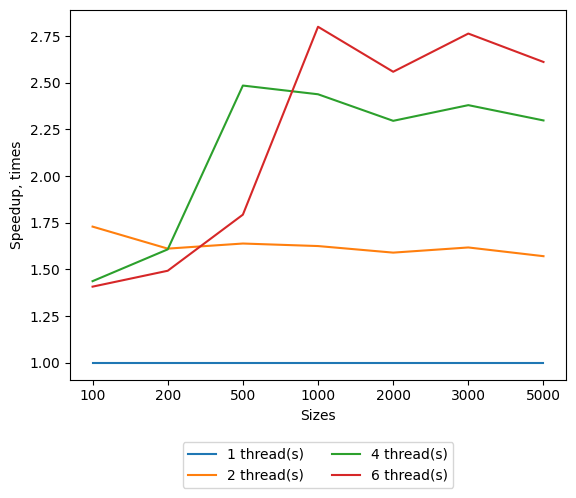
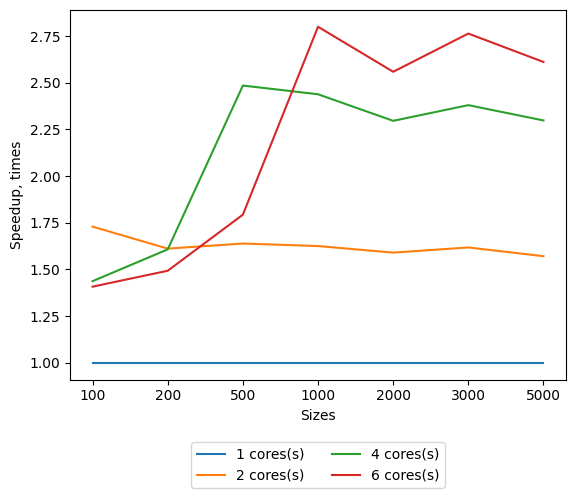
[lab-2] Update pictures legend

Changed region(s): [[0.375, 0.9036, 0.5312, 0.9639], [0.6562, 0.9036, 0.7812, 0.9639], [0.3125, 0.9036, 0.3438, 0.9639]]

diff --git a/lab2-Jacobi/plotting.py b/lab2-Jacobi/plotting.py
@@ -10,14 +10,14 @@ def read_json(filename):
 
 
 def plot():
-    parent_dir = 'runs/test_runs/'
+    parent_dir = 'runs/bcast_runs/'
     filenames = os.listdir(parent_dir)
 
     run_times_for_sizes = {}
     for filename in filenames:
         run_results = read_json(parent_dir + filename)
         for run_result in run_results['runs']:
-            thread_num = f'{run_result["thread_num"]} thread(s)'
+            thread_num = f'{run_result["thread_num"]} cores(s)'
             if thread_num not in run_times_for_sizes:
                 run_times_for_sizes[thread_num] = []
             run_times_for_sizes[thread_num].append((
@@ -33,7 +33,7 @@ def plot():
 
     for line_label, runtimes_for_size in sorted(run_times_for_sizes.items()):
         sizes = [f'{x[0]}' for x in runtimes_for_size]
-        speedups = [run_times_for_sizes['1 thread(s)'][i][1] / x[1] for i, x in enumerate(runtimes_for_size)]
+        speedups = [run_times_for_sizes['1 cores(s)'][i][1] / x[1] for i, x in enumerate(runtimes_for_size)]
         ax.plot(sizes, speedups, label=line_label)
 
     plt.ylabel('Speedup, times')
@@ -41,7 +41,7 @@ def plot():
     lgd = ax.legend(loc='upper center', bbox_to_anchor=(0.5, -0.15), fancybox=True, ncol=2)
 
     os.makedirs('./images/', exist_ok=True)
-    plt.savefig('./images/jacobi_2.png', bbox_extra_artists=(lgd, ), bbox_inches='tight')
+    plt.savefig('./images/jacobi_1.png', bbox_extra_artists=(lgd, ), bbox_inches='tight')
 
 
 def main():
